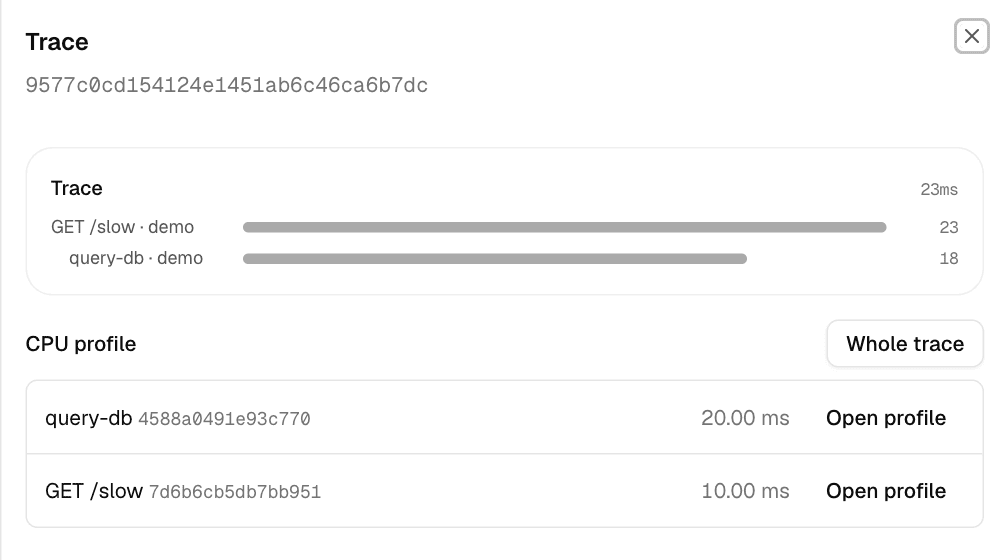
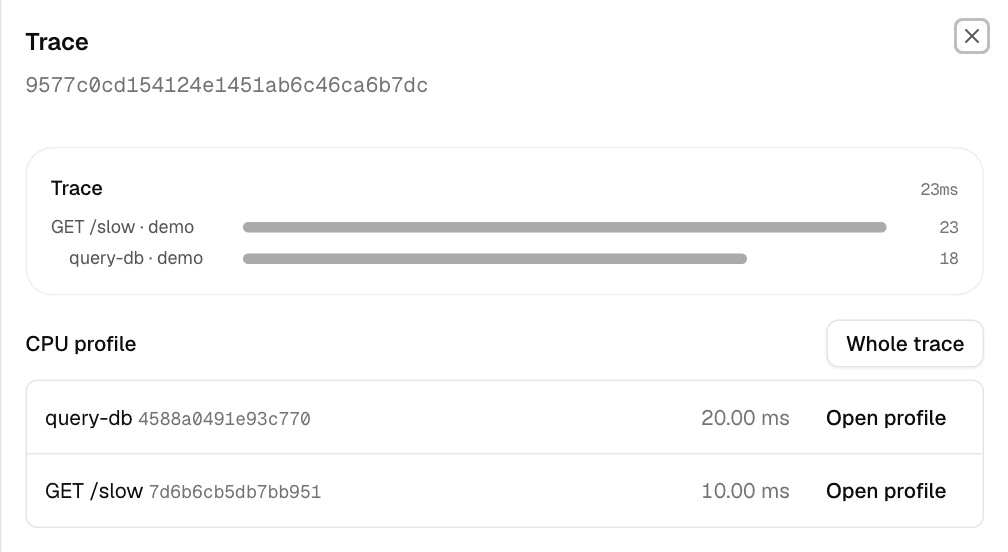
docs: stack the README screenshots so they stay readable
Side by side in a table they rendered at about 300-450 px on github.com.

Assisted-by: Claude

diff --git a/README.md b/README.md
@@ -21,9 +21,13 @@ trace and span that produced them.
 Every 15 seconds (CPU every 30) it reads the Go runtime's profiles, turns
 them into one OTLP request and posts it. Nothing else to run.
 
-| Heap in use | Any OTLP backend, e.g. Grafana Pyroscope |
-|---|---|
-| <img src="docs/assets/sigiro-heap.png" alt="In-use heap flame graph of the demo app"> | <img src="docs/assets/pyroscope-cpu.png" alt="The same demo app's CPU profile in Grafana Pyroscope"> |
+Heap in use, same app:
+
+<img src="docs/assets/sigiro-heap.png" alt="In-use heap flame graph of the demo app" width="100%">
+
+The same data in Grafana Pyroscope, through its OTLP endpoint:
+
+<img src="docs/assets/pyroscope-cpu.png" alt="The demo app's CPU profile in Grafana Pyroscope" width="100%">
 
 ## Quickstart (about 3 minutes)
 
@@ -180,11 +184,13 @@ tp := sdktrace.NewTracerProvider(...)
 otel.SetTracerProvider(profiletrace.NewTracerProvider(tp))
 ```
 
-A backend can then open the CPU profile of one span:
+A backend can then list the spans of a trace that used CPU:
 
-| A trace's spans with CPU time | "Open profile" on `query-db` |
-|---|---|
-| <img src="docs/assets/sigiro-trace.png" alt="Trace sheet listing the spans that have CPU samples"> | <img src="docs/assets/sigiro-span.png" alt="Flame graph of one span's CPU samples, 100% linked"> |
+<img src="docs/assets/sigiro-trace.png" alt="Trace sheet listing the spans that have CPU samples" width="60%">
+
+and open the profile of one span (here `query-db`):
+
+<img src="docs/assets/sigiro-span.png" alt="Flame graph of one span's CPU samples" width="100%">
 
 `profiletrace.WithScope(profiletrace.ScopeRoot)` labels only local root
 spans, which is cheaper.
